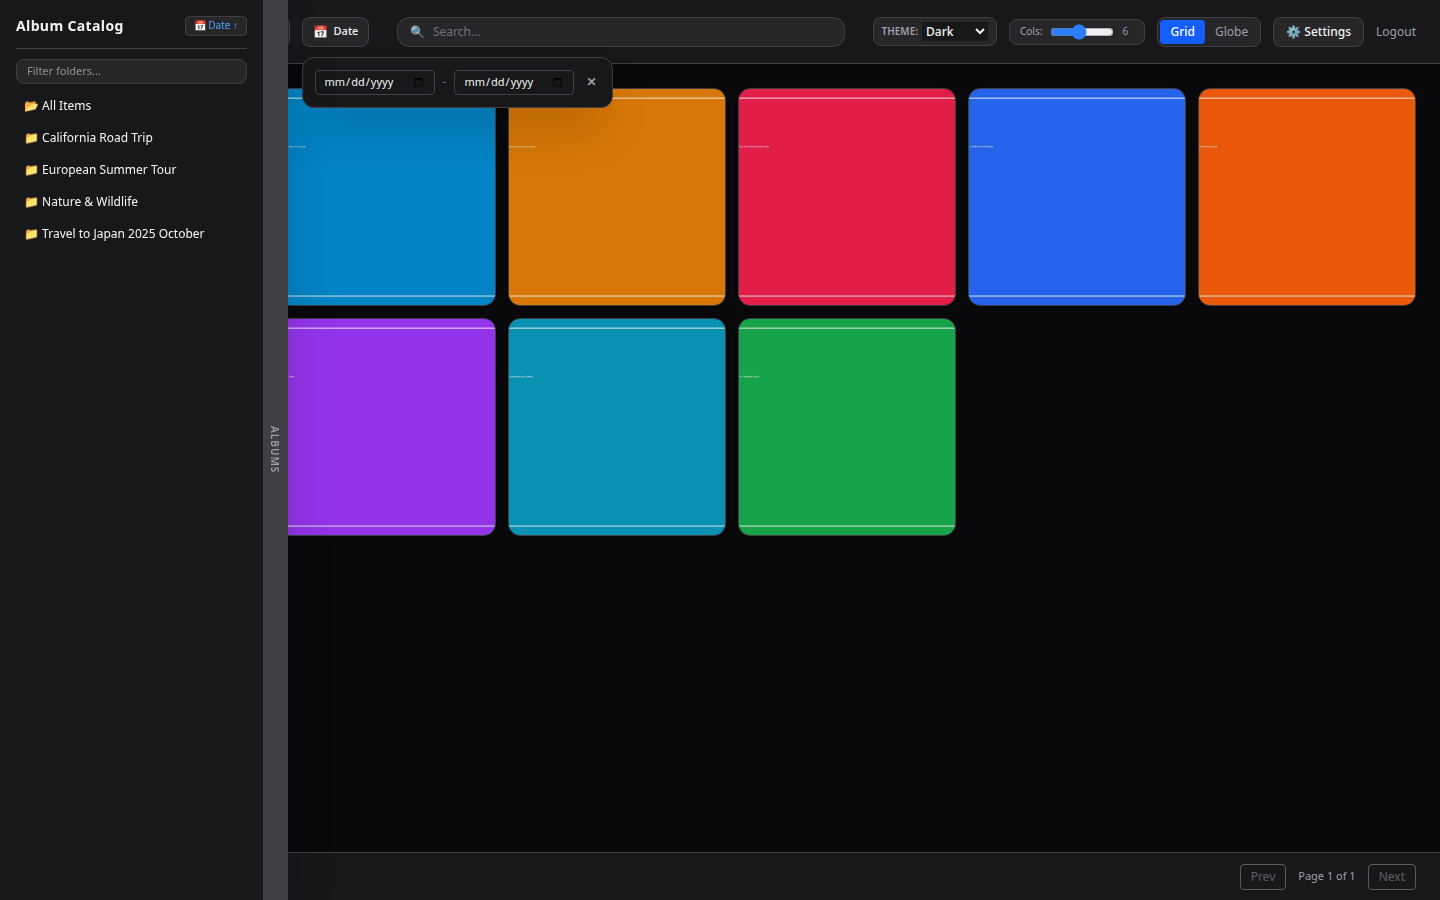
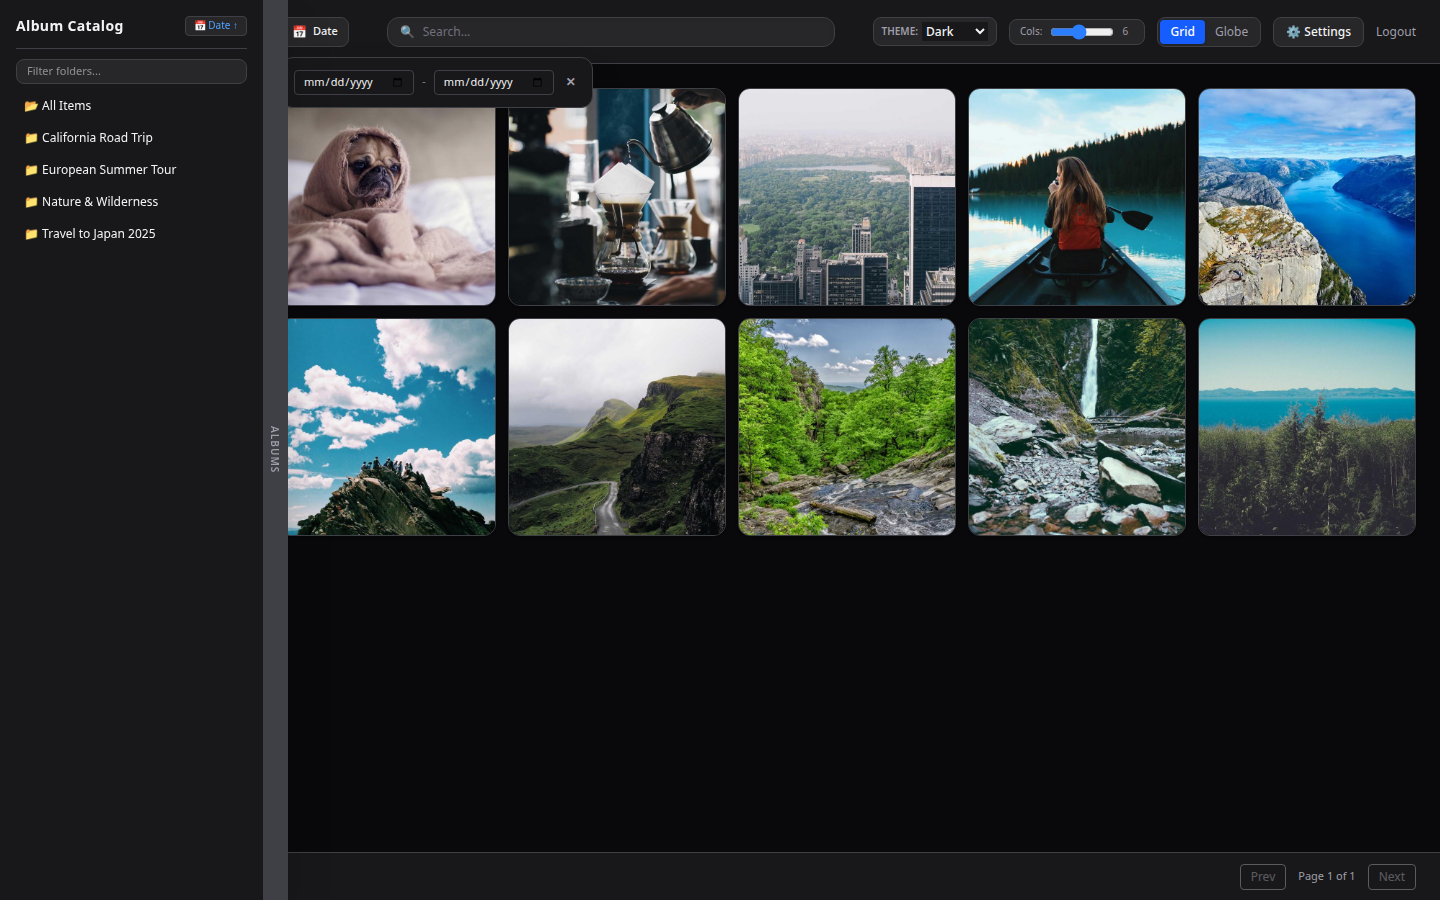
feat: add account security credential update to settings, replace demo photos with real photographs, and update screenshots

diff --git a/dist/index.html b/dist/index.html
@@ -265,6 +265,57 @@
         <button onclick="closeSettingsPage()" class="px-4 py-2 bg-blue-600 hover:bg-blue-500 text-white rounded-lg font-semibold transition text-xs shadow-md">✕ Close</button>
       </div>
 
+            <!-- ACCOUNT SECURITY SECTION -->
+      <section style="background-color: var(--bg-panel); border-color: var(--border-color);" class="p-6 rounded-2xl border space-y-4">
+        <div class="flex items-center justify-between">
+          <div>
+            <h3 class="text-sm font-bold flex items-center gap-2">
+              <span>🔐</span> Account Security & Credentials
+            </h3>
+            <p class="text-zinc-400 text-[11px] mt-0.5">Update default administrator credentials to secure your vault access.</p>
+          </div>
+          <span id="security-badge" class="px-2 py-0.5 text-[10px] rounded font-medium bg-amber-500/20 text-amber-300 border border-amber-500/30">Action Recommended</span>
+        </div>
+
+        <div id="default-cred-warning" class="bg-amber-500/10 border border-amber-500/30 rounded-xl p-3.5 text-xs text-amber-200 flex items-start gap-3">
+          <span class="text-lg">⚠</span>
+          <div>
+            <span class="font-bold">Default credentials detected (admin / admin).</span>
+            <p class="text-[11px] text-amber-300/80 mt-0.5">Using default credentials is insecure. Please set a new unique username and a strong password.</p>
+          </div>
+        </div>
+
+        <form id="cred-form" onsubmit="event.preventDefault(); updateAccountCredentials();" class="space-y-3">
+          <div class="grid grid-cols-1 md:grid-cols-2 gap-3">
+            <div>
+              <label class="block text-zinc-400 text-[11px] mb-1 font-medium">Current Password</label>
+              <input id="cred-curr-pass" type="password" required placeholder="Enter current password (admin)" style="background-color: var(--bg-input); border-color: var(--border-color);" class="w-full border rounded-lg px-3 py-2 text-xs focus:outline-none focus:border-blue-500 text-zinc-100" />
+            </div>
+            <div>
+              <label class="block text-zinc-400 text-[11px] mb-1 font-medium">New Username</label>
+              <input id="cred-new-user" type="text" required placeholder="New username" style="background-color: var(--bg-input); border-color: var(--border-color);" class="w-full border rounded-lg px-3 py-2 text-xs focus:outline-none focus:border-blue-500 text-zinc-100" />
+            </div>
+          </div>
+          <div class="grid grid-cols-1 md:grid-cols-2 gap-3">
+            <div>
+              <label class="block text-zinc-400 text-[11px] mb-1 font-medium">New Password</label>
+              <input id="cred-new-pass" type="password" required minlength="4" placeholder="Enter new password (min 4 chars)" style="background-color: var(--bg-input); border-color: var(--border-color);" class="w-full border rounded-lg px-3 py-2 text-xs focus:outline-none focus:border-blue-500 text-zinc-100" />
+            </div>
+            <div>
+              <label class="block text-zinc-400 text-[11px] mb-1 font-medium">Confirm New Password</label>
+              <input id="cred-confirm-pass" type="password" required minlength="4" placeholder="Re-enter new password" style="background-color: var(--bg-input); border-color: var(--border-color);" class="w-full border rounded-lg px-3 py-2 text-xs focus:outline-none focus:border-blue-500 text-zinc-100" />
+            </div>
+          </div>
+
+          <div class="flex items-center justify-between pt-1">
+            <button type="submit" class="px-4 py-2 bg-blue-600 hover:bg-blue-500 text-white font-semibold rounded-lg text-xs transition shadow-sm">
+              Update Credentials
+            </button>
+            <span id="cred-status-msg" class="text-xs"></span>
+          </div>
+        </form>
+      </section>
+
       <section style="background-color: var(--bg-panel); border-color: var(--border-color);" class="p-6 rounded-2xl border space-y-4">
         <div class="flex items-center justify-between">
           <h3 class="text-sm font-bold">Source Directories & SMB Shares</h3>
@@ -473,12 +524,20 @@
 
             const update = () => {
               const d = pswp.currSlide.data;
+              const hasGps = d.latitude && d.longitude;
+              const locBadge = hasGps 
+                ? `<span class="bg-blue-500/20 text-blue-300 border border-blue-500/30 px-2 py-0.5 rounded text-[10px]">📍 ${Number(d.latitude).toFixed(4)}, ${Number(d.longitude).toFixed(4)}</span>`
+                : `<span class="bg-zinc-800 text-zinc-400 border border-zinc-700 px-2 py-0.5 rounded text-[10px]">📍 No GPS Location</span>`;
+
               el.innerHTML = `
                 <div class="flex items-center justify-between border-b border-zinc-700/60 pb-2">
-                  <span class="text-[10px] text-blue-400 font-mono">${d.album}</span>
-                  <button onclick="saveLightboxCaption(${d.id})" class="text-[10px] text-emerald-400 font-bold">Save</button>
+                  <div class="flex items-center gap-2">
+                    <span class="text-[10px] text-blue-400 font-mono font-semibold">${d.album}</span>
+                    ${locBadge}
+                  </div>
+                  <button onclick="saveLightboxCaption(${d.id})" class="px-2.5 py-1 bg-emerald-600 hover:bg-emerald-500 text-white rounded text-[10px] font-bold transition">Save to SQLite</button>
                 </div>
-                <textarea id="caption-edit-${d.id}" rows="2" class="w-full bg-zinc-950 border border-zinc-700 rounded p-1 text-xs text-zinc-100 mt-2">${d.caption}</textarea>
+                <textarea id="caption-edit-${d.id}" rows="2" class="w-full bg-zinc-950 border border-zinc-700 rounded p-2 text-xs text-zinc-100 mt-2 focus:outline-none focus:border-blue-500">${d.caption}</textarea>
               `;
             };
             pswp.on('change', update);
@@ -546,7 +605,62 @@
       });
     }
 
+        async function updateAccountCredentials() {
+      const currPass = document.getElementById("cred-curr-pass").value;
+      const newUser = document.getElementById("cred-new-user").value.trim();
+      const newPass = document.getElementById("cred-new-pass").value;
+      const confirmPass = document.getElementById("cred-confirm-pass").value;
+      const statusMsg = document.getElementById("cred-status-msg");
+
+      if (newPass !== confirmPass) {
+        statusMsg.className = "text-xs text-rose-400 font-medium";
+        statusMsg.textContent = "New passwords do not match.";
+        return;
+      }
+
+      const currUser = sessionStorage.getItem("username") || "admin";
+
+      try {
+        const res = await fetch("/api/auth/change-credentials", {
+          method: "POST",
+          headers: { "Content-Type": "application/json" },
+          body: JSON.stringify({
+            current_username: currUser,
+            current_password: currPass,
+            new_username: newUser,
+            new_password: newPass
+          })
+        });
+        const data = await res.json();
+        if (res.ok) {
+          statusMsg.className = "text-xs text-emerald-400 font-medium";
+          statusMsg.textContent = "✓ Credentials updated successfully!";
+          sessionStorage.setItem("username", newUser);
+          document.getElementById("default-cred-warning").classList.add("hidden");
+          const badge = document.getElementById("security-badge");
+          if (badge) {
+            badge.className = "px-2 py-0.5 text-[10px] rounded font-medium bg-emerald-500/20 text-emerald-300 border border-emerald-500/30";
+            badge.textContent = "Secured";
+          }
+          document.getElementById("cred-form").reset();
+        } else {
+          statusMsg.className = "text-xs text-rose-400 font-medium";
+          statusMsg.textContent = data.error || "Failed to update credentials.";
+        }
+      } catch (err) {
+        statusMsg.className = "text-xs text-rose-400 font-medium";
+        statusMsg.textContent = "Error updating credentials.";
+      }
+    }
+
     function openSettingsPage() {
+      const user = sessionStorage.getItem('username') || 'admin';
+      if (user !== 'admin') {
+        const w = document.getElementById('default-cred-warning');
+        if (w) w.classList.add('hidden');
+        const b = document.getElementById('security-badge');
+        if (b) { b.className = 'px-2 py-0.5 text-[10px] rounded font-medium bg-emerald-500/20 text-emerald-300 border border-emerald-500/30'; b.textContent = 'Secured'; }
+      }
       document.getElementById('settings-page').classList.remove('hidden');
       document.getElementById('settings-page').classList.add('flex');
       renderSettings();

diff --git a/server.py b/server.py
@@ -8,9 +8,10 @@ import urllib.parse
 from datetime import datetime
 
 PORT = int(os.environ.get("PORT", 8080))
-DB_PATH = os.environ.get("DB_PATH", os.path.join(os.path.dirname(os.path.abspath(__file__)), "data", "memoria.db"))
-DIST_DIR = os.path.join(os.path.dirname(os.path.abspath(__file__)), "dist")
-SOURCES_DIR = os.path.join(os.path.dirname(os.path.abspath(__file__)), "media_sources")
+BASE_DIR = os.path.dirname(os.path.abspath(__file__))
+DB_PATH = os.environ.get("DB_PATH", os.path.join(BASE_DIR, "data", "memoria.db"))
+DIST_DIR = os.path.join(BASE_DIR, "dist")
+SOURCES_DIR = os.path.join(BASE_DIR, "media_sources")
 
 def get_db():
     conn = sqlite3.connect(DB_PATH)
@@ -61,37 +62,38 @@ def init_db():
     # Insert default admin user if not exists
     c.execute("INSERT OR IGNORE INTO users (username, password_hash) VALUES (?, ?)", ("admin", "admin"))
     
-    # Insert default sources
+    # Configure default sources
     default_sources = [
-        ("Travel to Japan 2025 October", os.path.join(SOURCES_DIR, "japan"), "travel,asia,japan"),
-        ("European Summer Tour", os.path.join(SOURCES_DIR, "paris"), "europe,france,sightseeing"),
-        ("Nature & Wildlife", os.path.join(SOURCES_DIR, "nature"), "nationalparks,hiking,wildlife"),
-        ("California Road Trip", os.path.join(SOURCES_DIR, "california"), "coast,scenic,california")
+        ("Nature & Wilderness", os.path.join(SOURCES_DIR, "nature"), "mountains,lake,waterfall,forest"),
+        ("European Summer Tour", os.path.join(SOURCES_DIR, "cities"), "europe,paris,prague,architecture"),
+        ("California Road Trip", os.path.join(SOURCES_DIR, "california"), "coast,pacific,highway1,sunset"),
+        ("Travel to Japan 2025", os.path.join(SOURCES_DIR, "japan"), "tokyo,shibuya,temple,garden")
     ]
     for album, path, tags in default_sources:
         c.execute("INSERT OR IGNORE INTO sources_config (album_name, path_location, tags) VALUES (?, ?, ?)", (album, path, tags))
     
-    # Seed media files if table empty
-    c.execute("SELECT COUNT(*) FROM media")
-    if c.fetchone()[0] == 0:
-        samples = [
-            ("japan/tokyo_tower.jpg", "Travel to Japan 2025 October", "2025-10-12 18:30:00", 35.6586, 139.7454, "Tokyo Tower illuminating the night skyline with vibrant amber colors."),
-            ("japan/kyoto_temple.jpg", "Travel to Japan 2025 October", "2025-10-14 10:15:00", 35.0394, 135.7292, "Kinkaku-ji Golden Pavilion reflecting quietly on the serene pond."),
-            ("japan/mount_fuji.jpg", "Travel to Japan 2025 October", "2025-10-16 07:00:00", 35.3606, 138.7274, "Early morning sunrise casting a purple glow over Mount Fuji peak."),
-            ("paris/eiffel_sunset.jpg", "European Summer Tour", "2025-07-04 20:45:00", 48.8584, 2.2945, "Sunset over the Champ de Mars facing the Eiffel Tower."),
-            ("paris/louvre_pyramid.jpg", "European Summer Tour", "2025-07-05 14:20:00", 48.8606, 2.3376, "Glass pyramid courtyard of the Louvre Museum on a sunny afternoon."),
-            ("nature/yosemite_valley.jpg", "Nature & Wildlife", "2025-05-20 11:30:00", 37.7456, -119.5936, "Granite cliffs of El Capitan and Half Dome in Yosemite Valley."),
-            ("nature/yellowstone_geyser.jpg", "Nature & Wildlife", "2025-06-15 15:45:00", 44.4605, -110.8281, "Old Faithful erupting steam high above the geothermal plateau."),
-            ("california/golden_gate.jpg", "California Road Trip", "2025-08-22 17:10:00", 37.8199, -122.4783, "Golden Gate Bridge shrouded in rolling Pacific fog at dusk."),
-            ("california/big_sur_coast.jpg", "California Road Trip", "2025-08-24 13:00:00", 36.3168, -121.8885, "Rugged Pacific coastline along Highway 1 at Bixby Creek Bridge."),
-            ("japan/shibuya_crossing.jpg", "Travel to Japan 2025 October", "2025-10-18 21:00:00", 35.6595, 139.7005, "Scramble crossing vibrant neon signs and pedestrian flow in Shibuya.")
-        ]
-        for rel_path, album, dt, lat, lon, caption in samples:
-            abs_path = os.path.join(SOURCES_DIR, rel_path)
-            c.execute("""
-                INSERT OR IGNORE INTO media (album_name, file_path, file_type, date_taken, latitude, longitude, caption)
-                VALUES (?, ?, ?, ?, ?, ?, ?)
-            """, (album, abs_path, "image", dt, lat, lon, caption))
+    # Reset/seed media files with real photographs (some with GPS, some without GPS)
+    c.execute("DELETE FROM media")
+    samples = [
+        ("nature/mountain_lake.jpg", "Nature & Wilderness", "2025-06-18 10:24:00", 46.5197, 8.4412, "Pristine emerald lake surrounded by majestic snow-capped alpine peaks."),
+        ("nature/waterfall_cascade.jpg", "Nature & Wilderness", "2025-06-20 14:15:30", 45.4215, -121.8947, "Lush mossy waterfall cascading through the Pacific temperate rainforest."),
+        ("nature/pine_forest.jpg", "Nature & Wilderness", "2025-06-22 08:45:10", None, None, "Misty morning sunbeams filtering through dense cedar and pine branches (No GPS)."),
+        ("nature/wilderness_peaks.jpg", "Nature & Wilderness", "2025-07-02 16:30:00", 44.4280, -110.5885, "Sweeping vistas over sprawling national park valleys and rugged crests."),
+        ("cities/european_avenue.jpg", "European Summer Tour", "2025-07-14 11:10:00", 48.8566, 2.3522, "Classic Haussmannian architecture along tree-lined Parisian avenues."),
+        ("cities/morning_cafe.jpg", "European Summer Tour", "2025-07-15 09:20:00", None, None, "Enjoying a morning espresso and warm croissants on a quaint cobblestone street (No GPS)."),
+        ("cities/historic_bridge.jpg", "European Summer Tour", "2025-07-18 19:50:00", 50.0878, 14.4205, "Gothic statues standing sentinel over historic river waters at dusk."),
+        ("california/pacific_coastline.jpg", "California Road Trip", "2025-08-05 17:40:00", 36.3168, -121.8885, "Waves crashing against dramatic ocean sea stacks along Route 1 at Big Sur."),
+        ("california/sunset_pier.jpg", "California Road Trip", "2025-08-08 20:05:00", 34.0100, -118.4962, "Golden hour reflections dancing across gentle Pacific tide ripples."),
+        ("california/coastal_coffee.jpg", "California Road Trip", "2025-08-10 10:00:00", None, None, "Freshly brewed single-origin pour-over overlooking the ocean breeze (No GPS)."),
+        ("japan/shibuya_crossing.jpg", "Travel to Japan 2025", "2025-10-12 21:15:00", 35.6595, 139.7005, "Dynamic currents of city life under dazzling neon facades in Shibuya."),
+        ("japan/shrine_garden.jpg", "Travel to Japan 2025", "2025-10-15 14:00:00", None, None, "Peaceful maple leaves sheltering moss stones beside a wooden engawa veranda (No GPS).")
+    ]
+    for rel_path, album, dt, lat, lon, caption in samples:
+        abs_path = os.path.join(SOURCES_DIR, rel_path)
+        c.execute("""
+            INSERT INTO media (album_name, file_path, file_type, date_taken, latitude, longitude, caption)
+            VALUES (?, ?, ?, ?, ?, ?, ?)
+        """, (album, abs_path, "image", dt, lat, lon, caption))
 
     conn.commit()
     conn.close()
@@ -123,6 +125,7 @@ class MediaVaultHandler(http.server.SimpleHTTPRequestHandler):
             self.send_response(204)
             self.end_headers()
             return
+
         parsed = urllib.parse.urlparse(self.path)
         path = parsed.path
         query = urllib.parse.parse_qs(parsed.query)
@@ -307,6 +310,10 @@ class MediaVaultHandler(http.server.SimpleHTTPRequestHandler):
           <span class="text-amber-400 font-bold">POST /api/auth/login</span>
           <span class="text-zinc-400">Payload: {{ username, password }} - returns session token</span>
         </li>
+        <li class="flex items-center justify-between bg-zinc-950/60 p-2.5 rounded border border-zinc-800/80">
+          <span class="text-cyan-400 font-bold">POST /api/auth/change-credentials</span>
+          <span class="text-zinc-400">Payload: {{ current_username, current_password, new_username, new_password }}</span>
+        </li>
       </ul>
     </div>
   </div>
@@ -332,10 +339,45 @@ class MediaVaultHandler(http.server.SimpleHTTPRequestHandler):
             payload = {}
 
         if path == "/api/auth/login":
-            if payload.get("username") == "admin" and payload.get("password") == "admin":
-                self.send_json({"token": "valid-session-token"})
+            u = payload.get("username", "").strip()
+            p = payload.get("password", "")
+            conn = get_db()
+            row = conn.execute("SELECT username, password_hash FROM users WHERE username = ? AND password_hash = ?", (u, p)).fetchone()
+            conn.close()
+            if row:
+                self.send_json({"token": "valid-session-token", "username": u})
             else:
-                self.send_json({"error": "Invalid credentials"}, status=401)
+                self.send_json({"error": "Invalid username or password"}, status=401)
+            return
+
+        elif path == "/api/auth/change-credentials":
+            curr_user = payload.get("current_username", "").strip()
+            curr_pass = payload.get("current_password", "")
+            new_user = payload.get("new_username", "").strip()
+            new_pass = payload.get("new_password", "")
+
+            if not new_user or not new_pass or len(new_pass) < 4:
+                self.send_json({"error": "New username and password (min 4 characters) are required."}, status=400)
+                return
+
+            conn = get_db()
+            user_row = conn.execute("SELECT id FROM users WHERE username = ? AND password_hash = ?", (curr_user, curr_pass)).fetchone()
+            if not user_row:
+                conn.close()
+                self.send_json({"error": "Current password is incorrect."}, status=401)
+                return
+
+            # Check if new username already taken by another user
+            existing = conn.execute("SELECT id FROM users WHERE username = ? AND id != ?", (new_user, user_row["id"])).fetchone()
+            if existing:
+                conn.close()
+                self.send_json({"error": f"Username {new_user} is already in use."}, status=400)
+                return
+
+            conn.execute("UPDATE users SET username = ?, password_hash = ? WHERE id = ?", (new_user, new_pass, user_row["id"]))
+            conn.commit()
+            conn.close()
+            self.send_json({"status": "ok", "username": new_user, "message": "Credentials updated successfully."})
             return
 
         elif path == "/api/media/caption":

diff --git a/src/main.rs b/src/main.rs
@@ -26,6 +26,15 @@ struct AppState {
 }
 
 #[derive(Deserialize)]
+#[derive(Deserialize)]
+struct ChangeCredentialsRequest {
+    current_username: String,
+    current_password: String,
+    new_username: String,
+    new_password: String,
+}
+
+#[derive(Deserialize)]
 struct LoginRequest {
     username: String,
     password: String,
@@ -103,6 +112,7 @@ async fn main() -> Result<(), Box<dyn std::error::Error>> {
 
     let app = Router::new()
         .route("/api/auth/login", post(login_handler))
+        .route("/api/auth/change-credentials", post(change_credentials_handler))
         .route("/api/config", get(get_configs).post(save_configs_handler))
         .route("/api/sync", post(trigger_sync_handler))
         .route("/api/media", get(list_media_handler))

diff --git a/README.md b/README.md
@@ -228,13 +228,15 @@ docker compose logs -f memoria
 
 ---
 
-### Step 4: First-Time Login & Source Sync
+### Step 4: First-Time Login & Security Hardening
 
 1. Open your browser and navigate to `http://localhost:8080`.
-2. Sign in using the default administrative credentials:
+2. Sign in using the initial setup administrative credentials:
    * **Username:** `admin`
    * **Password:** `admin`
-3. Click **⚙ Settings** (or **Manage Sources**) in the top navigation bar:
+3. Open **⚙ Settings** in the top navigation bar:
+   * **Update Default Credentials:** Notice the security warning banner. Enter your current password (`admin`), choose your new custom username and strong password, and click **Update Credentials**.
+   * **Configure Storage Sources:** Add local or container storage paths (e.g., `/media_sources/photos` or SMB network shares).
    * Add a source row pointing to your mounted container path (e.g., `/media_sources/photos` or SMB paths mapped into the container).
    * Click **Save Sources to Database**.
    * Click **🔄 Reload Index & Sync Database** to start the background scanner.
@@ -243,6 +245,11 @@ docker compose logs -f memoria
 ---
 
 ## 5. Feature Usage Guide
+
+### Account Security & Credential Hardening
+* The Settings page includes an **Account Security & Credentials** interface.
+* Detects when default credentials (`admin/admin`) are active and displays a security prompt banner.
+* Allows instantaneous password and username rotation directly to the SQLite `users` table without needing server restarts.
 
 ### Auto-Hiding Left Album Catalog
 * Move your mouse to the far-left screen tab (`Albums`) to expand the sidebar catalog.
